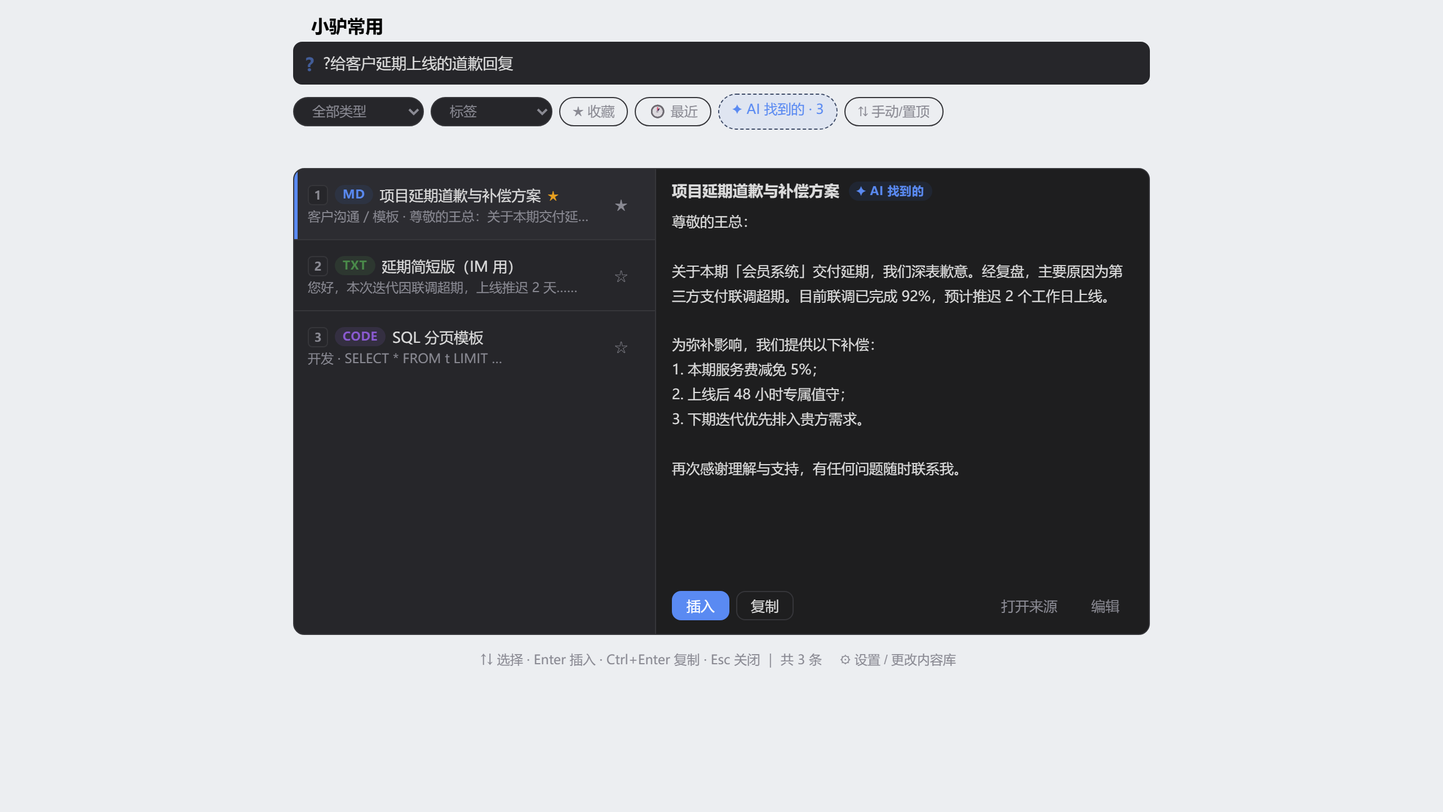
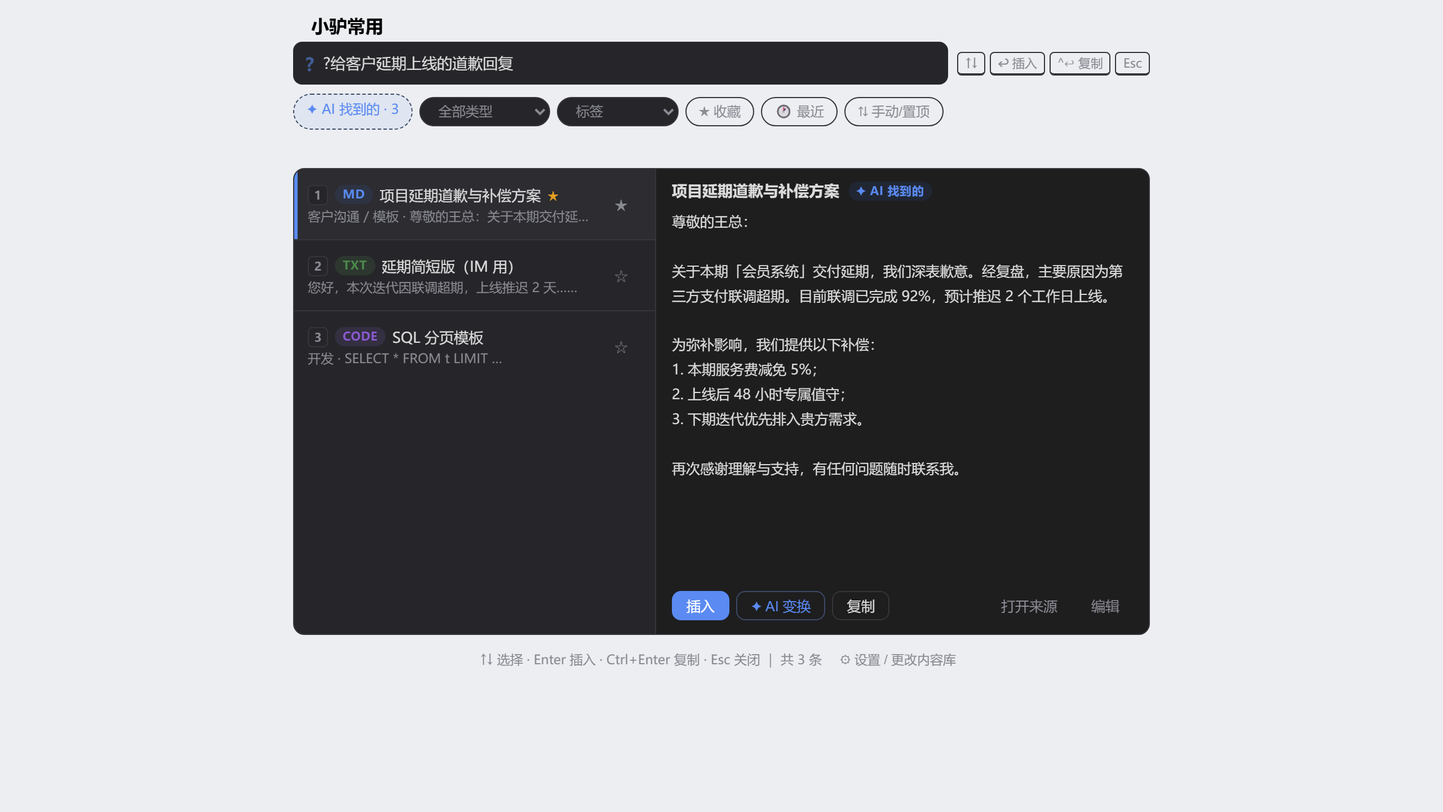
R57：原型差距收敛——头部 kbd chips/窗格 AI 变换按钮/AI 横幅首位/按钮层级对齐原型
- 头部快捷键 chips 桌面渲染；窗格底部 ✦AI变换（描边）接动作菜单 AI 分区
- AI 横幅移筛选行首位；按钮序列对齐原型（实心主色+描边+ghost 层级）
- test:ui desktop-light 断言同步；147 测试/UI 冒烟 7 场景全绿

diff --git a/docs/design/harness.html b/docs/design/harness.html
@@ -26,7 +26,7 @@ body { margin: 0; background: #eceef1; }
 .b3-dialog .xlc-search .b3-text-field { border: none; background: transparent; padding: 0; }
 .xlc-dialog { position: relative; }
 .xlc-dialog .xlc-menu { position: fixed; right: 180px; bottom: 120px; left: auto; width: 320px; }
-</style><style>.xlc-dialog{--xlc-radius: 10px;--xlc-badge-text: #4a8a4a;--xlc-badge-text-bg: rgba(94, 168, 94, .13);--xlc-badge-md: var(--b3-theme-primary);--xlc-badge-md-bg: rgba(53, 117, 240, .09);--xlc-badge-url: #b0680a;--xlc-badge-url-bg: rgba(232, 152, 45, .13);--xlc-badge-code: #8a5ad0;--xlc-badge-code-bg: rgba(150, 105, 224, .13);--xlc-badge-image: #3a9ab5;--xlc-badge-image-bg: rgba(80, 175, 200, .13);--xlc-badge-file: #8a8a93;--xlc-badge-file-bg: rgba(140, 140, 150, .14);--xlc-badge-ref: #d05a8a;--xlc-badge-ref-bg: rgba(220, 110, 155, .13);--xlc-badge-warn: #c2503a;--xlc-badge-warn-bg: rgba(226, 106, 80, .12);display:flex;flex-direction:column;height:100%;gap:8px;color:var(--b3-theme-on-background)}.xlc-dialog .xlc-top{display:flex}.xlc-dialog .xlc-search{flex:1;display:flex;align-items:center;gap:8px;background-color:var(--b3-theme-surface);border:1.5px solid rgba(0,0,0,0);border-radius:8px;padding:0 10px;height:36px}.xlc-dialog .xlc-search:focus-within{border-color:var(--b3-theme-primary);background-color:var(--b3-theme-background)}.xlc-dialog .xlc-search:focus-within .xlc-search-q{opacity:1}.xlc-dialog .xlc-search .xlc-search-q{color:var(--b3-theme-primary);font-weight:600;opacity:.55;user-select:none}.xlc-dialog .xlc-search .xlc-search-input{flex:1;border:none;background:rgba(0,0,0,0);box-shadow:none;padding:0;height:auto;font-size:13.5px}.xlc-dialog .xlc-filters{display:flex;gap:6px;align-items:center;flex-wrap:wrap}.xlc-dialog .xlc-filters .b3-select{max-width:128px;border-radius:999px;padding:2px 26px 2px 12px;height:26px;font-size:12px;color:var(--b3-theme-on-surface)}.xlc-dialog .xlc-chip{border:1px solid var(--b3-border-color);background:rgba(0,0,0,0);color:var(--b3-theme-on-surface);border-radius:999px;padding:2px 11px;font-size:12px;line-height:20px;min-height:26px;cursor:pointer}.xlc-dialog .xlc-chip:hover{border-color:var(--b3-theme-primary-light)}.xlc-dialog .xlc-chip--on{background-color:var(--b3-theme-primary-lighter);border-color:rgba(0,0,0,0);color:var(--b3-theme-primary);font-weight:600}.xlc-dialog .xlc-ai-banner{align-self:flex-start;border:1px dashed var(--b3-theme-primary-light);color:var(--b3-theme-primary);background-color:rgba(53,117,240,.07)}.xlc-dialog .xlc-doclist{display:flex;flex-direction:column;gap:2px;max-height:180px;overflow:auto}.xlc-dialog .xlc-doclist .xlc-doclist-item{text-align:left;border:none;background:rgba(0,0,0,0);color:var(--b3-theme-on-background);font-size:12.5px;padding:6px 10px;min-height:32px;border-radius:6px;cursor:pointer;overflow:hidden;text-overflow:ellipsis;white-space:nowrap}.xlc-dialog .xlc-doclist .xlc-doclist-item:hover{background-color:var(--b3-list-hover)}.xlc-dialog .xlc-doclist .xlc-doclist-item--on{background-color:var(--b3-theme-primary-lighter);color:var(--b3-theme-primary);font-weight:600}.xlc-dialog .xlc-doclist .xlc-doclist-empty{font-size:12px;color:var(--b3-theme-on-surface);padding:6px 10px}.xlc-dialog .xlc-status{min-height:18px;font-size:12px;color:var(--b3-theme-on-surface)}.xlc-dialog .xlc-body{flex:1;display:flex;min-height:0;border:1px solid var(--b3-border-color);border-radius:var(--xlc-radius);background-color:var(--b3-theme-surface);overflow:hidden}.xlc-dialog .xlc-list{width:320px;flex-shrink:0;overflow:auto;border-right:1px solid var(--b3-border-color)}.xlc-dialog .xlc-row{display:flex;align-items:center;gap:8px;padding:9px 12px;min-height:44px;cursor:pointer;border-bottom:1px solid var(--b3-border-color)}.xlc-dialog .xlc-row:last-child{border-bottom:none}.xlc-dialog .xlc-row:hover{background-color:var(--b3-list-hover)}.xlc-dialog .xlc-row--active{background-color:var(--b3-list-hover);box-shadow:inset 3px 0 0 var(--b3-theme-primary)}.xlc-dialog .xlc-row .xlc-row-main{flex:1;min-width:0}.xlc-dialog .xlc-row .xlc-row-title{display:flex;align-items:center;gap:6px;font-size:13px;font-weight:500;margin-bottom:2px;overflow:hidden}.xlc-dialog .xlc-row .xlc-row-titletext{overflow:hidden;text-overflow:ellipsis;white-space:nowrap;color:var(--b3-theme-on-background)}.xlc-dialog .xlc-row .xlc-row-favmark{color:#e8a020;font-size:12px;flex-shrink:0}.xlc-dialog .xlc-row .xlc-row-ordinal{display:inline-flex;align-items:center;justify-content:center;width:16px;height:16px;border-radius:4px;font-size:10.5px;font-weight:600;color:var(--b3-theme-on-surface);background-color:var(--b3-theme-surface);border:1px solid var(--b3-border-color);flex-shrink:0}.xlc-dialog .xlc-row .xlc-row-meta{font-size:11.5px;color:var(--b3-theme-on-surface);overflow:hidden;text-overflow:ellipsis;white-space:nowrap}.xlc-dialog .xlc-row .xlc-row-action{min-width:36px;min-height:36px;flex-shrink:0;border:none;background:rgba(0,0,0,0);color:var(--b3-theme-on-surface);font-size:14px}.xlc-dialog .xlc-badge{display:inline-block;font-size:10.5px;font-weight:600;padding:0 7px;border-radius:999px;line-height:17px;letter-spacing:.3px;flex-shrink:0}.xlc-dialog .xlc-badge--text{color:var(--xlc-badge-text);background-color:var(--xlc-badge-text-bg)}.xlc-dialog .xlc-badge--markdown{color:var(--xlc-badge-md);background-color:var(--xlc-badge-md-bg)}.xlc-dialog .xlc-badge--url{color:var(--xlc-badge-url);background-color:var(--xlc-badge-url-bg)}.xlc-dialog .xlc-badge--code{color:var(--xlc-badge-code);background-color:var(--xlc-badge-code-bg)}.xlc-dialog .xlc-badge--image{color:var(--xlc-badge-image);background-color:var(--xlc-badge-image-bg)}.xlc-dialog .xlc-badge--asset{color:var(--xlc-badge-file);background-color:var(--xlc-badge-file-bg)}.xlc-dialog .xlc-badge--blockref{color:var(--xlc-badge-ref);background-color:var(--xlc-badge-ref-bg)}.xlc-dialog .xlc-badge--structure{color:var(--xlc-badge-md);background-color:var(--xlc-badge-md-bg)}.xlc-dialog .xlc-badge--warn{color:var(--xlc-badge-warn);background-color:var(--xlc-badge-warn-bg)}.xlc-dialog .xlc-badge--ai{color:var(--b3-theme-primary);background-color:rgba(53,117,240,.09)}.xlc-dialog .xlc-pane{flex:1;display:flex;flex-direction:column;min-width:0;background-color:var(--b3-theme-background)}.xlc-dialog .xlc-pane-head{display:flex;align-items:center;gap:8px;padding:10px 14px 4px}.xlc-dialog .xlc-pane-head .xlc-pane-title{font-weight:600;font-size:13.5px;overflow:hidden;text-overflow:ellipsis;white-space:nowrap}.xlc-dialog .xlc-pane-warn{margin:4px 14px 6px;padding:6px 10px;border-radius:6px;font-size:12px;color:var(--xlc-badge-warn);background-color:var(--xlc-badge-warn-bg)}.xlc-dialog .xlc-pane-body{flex:1;overflow:auto;padding:4px 14px;font-size:12.5px;line-height:1.75;white-space:pre-wrap;word-break:break-word;color:var(--b3-theme-on-background)}.xlc-dialog .xlc-pane-foot{display:flex;gap:6px;padding:8px 14px 12px;flex-wrap:wrap}.xlc-dialog .xlc-pane-foot .xlc-foot-spacer{flex:1}.xlc-dialog .xlc-pane-foot .xlc-btn-primary{background-color:var(--b3-theme-primary);border-color:var(--b3-theme-primary);color:var(--b3-theme-on-primary)}.xlc-dialog .xlc-pane-foot .xlc-btn-ghost{border:none;background:rgba(0,0,0,0);color:var(--b3-theme-on-surface)}.xlc-dialog .xlc-provider-header{padding:6px 12px;font-size:11.5px;font-weight:600;color:var(--b3-theme-primary);background-color:rgba(53,117,240,.06);border-bottom:1px solid var(--b3-border-color);position:sticky;top:0}.xlc-dialog .xlc-row--provider{background-color:rgba(53,117,240,.03)}.xlc-dialog .xlc-footer{font-size:11.5px;color:var(--b3-theme-on-surface);text-align:center;display:flex;align-items:center;justify-content:center;gap:10px}.xlc-dialog .xlc-footer .xlc-footer-gear{border:none;background:rgba(0,0,0,0);color:var(--b3-theme-on-surface);font-size:11.5px;padding:2px 6px;min-height:26px}.xlc-dialog .xlc-menu{position:absolute;inset:auto 16px 16px 16px;z-index:10;display:flex;flex-direction:column;background-color:var(--b3-menu-background);border:1px solid var(--b3-border-color);border-radius:12px;box-shadow:var(--b3-dialog-shadow);overflow:auto;max-height:72%}.xlc-dialog .xlc-menu .xlc-menu-lbl{font-size:11px;color:var(--b3-theme-on-surface);padding:10px 12px 2px}.xlc-dialog .xlc-menu .xlc-menu-preview{margin:8px;padding:8px 10px;max-height:150px;overflow:auto;font-size:12px;line-height:1.7;font-family:inherit;color:var(--b3-theme-on-background);background-color:var(--b3-theme-surface);border:1px solid var(--b3-border-color);border-radius:8px;white-space:pre-wrap;word-break:break-all}.xlc-dialog .xlc-menu .xlc-menu-sec{padding:4px 8px 6px;border-bottom:1px solid var(--b3-border-color);display:flex;flex-wrap:wrap;gap:2px}.xlc-dialog .xlc-menu .xlc-menu-sec:last-child{border-bottom:none}.xlc-dialog .xlc-menu .xlc-menu-sec--ai{background-color:rgba(53,117,240,.04)}.xlc-dialog .xlc-menu .xlc-menu-item{text-align:left;min-height:36px;width:100%;background:rgba(0,0,0,0);border:none;border-radius:7px;color:var(--b3-theme-on-background);padding:6px 10px;font-size:13px;cursor:pointer}.xlc-dialog .xlc-menu .xlc-menu-item:hover{background-color:var(--b3-list-hover)}.xlc-dialog .xlc-menu .xlc-menu-item--ai{color:var(--b3-theme-primary)}@media(max-width: 620px){.xlc-dialog:not(.xlc-dialog--mobile) .xlc-list{width:100%;border-right:none}.xlc-dialog:not(.xlc-dialog--mobile) .xlc-pane{display:none}}.xlc-dialog--mobile .xlc-menu{inset:auto 0 0 0;border-radius:16px 16px 0 0;padding-bottom:env(safe-area-inset-bottom, 0);max-height:78%}.xlc-dialog--mobile .xlc-body{border:none;background:rgba(0,0,0,0)}.xlc-dialog--mobile .xlc-list{width:100%;border-right:none;border:1px solid var(--b3-border-color);border-radius:var(--xlc-radius)}.b3-dialog__container.xlc-sheet{position:fixed;left:0;right:0;bottom:0;top:auto !important;margin-bottom:0;border-radius:16px 16px 0 0;transform:none !important;padding-bottom:env(safe-area-inset-bottom, 0)}.xlc-form{display:flex;flex-direction:column;gap:10px}.xlc-form .xlc-form-field{display:flex;flex-direction:column;gap:4px}.xlc-form .xlc-form-field .xlc-form-label{font-size:12px;color:var(--b3-theme-on-surface)}.xlc-form .xlc-form-field .xlc-form-label .xlc-form-ai{color:var(--b3-theme-primary);cursor:pointer;border:none;background:rgba(0,0,0,0);font-size:12px;padding:0 0 0 6px}.xlc-form .xlc-form-field .xlc-form-label .xlc-form-ai:hover{text-decoration:underline}.xlc-form .xlc-form-field .xlc-form-hint{font-size:11px;color:var(--b3-theme-on-surface)}.xlc-form .xlc-sugrow{display:flex;gap:6px;align-items:center;font-size:12px;color:var(--b3-theme-primary);background-color:rgba(53,117,240,.07);border:1px dashed var(--b3-theme-primary-light);border-radius:8px;padding:6px 10px}.xlc-form .xlc-sugrow .xlc-sugrow-adopt{margin-left:auto;border:1px solid var(--b3-theme-primary-light);color:var(--b3-theme-primary);background:rgba(0,0,0,0);border-radius:6px;padding:2px 10px;font-size:12px;cursor:pointer}.xlc-form .xlc-form-actions{display:flex;justify-content:flex-end;gap:8px}.xlc-setting-row{display:flex;align-items:flex-start;gap:8px;font-size:12.5px;color:var(--b3-theme-on-background)}.xlc-setting-row input[type=checkbox]{margin-top:2px;flex-shrink:0}
+</style><style>.xlc-dialog{--xlc-radius: 10px;--xlc-badge-text: #4a8a4a;--xlc-badge-text-bg: rgba(94, 168, 94, .13);--xlc-badge-md: var(--b3-theme-primary);--xlc-badge-md-bg: rgba(53, 117, 240, .09);--xlc-badge-url: #b0680a;--xlc-badge-url-bg: rgba(232, 152, 45, .13);--xlc-badge-code: #8a5ad0;--xlc-badge-code-bg: rgba(150, 105, 224, .13);--xlc-badge-image: #3a9ab5;--xlc-badge-image-bg: rgba(80, 175, 200, .13);--xlc-badge-file: #8a8a93;--xlc-badge-file-bg: rgba(140, 140, 150, .14);--xlc-badge-ref: #d05a8a;--xlc-badge-ref-bg: rgba(220, 110, 155, .13);--xlc-badge-warn: #c2503a;--xlc-badge-warn-bg: rgba(226, 106, 80, .12);display:flex;flex-direction:column;height:100%;gap:8px;color:var(--b3-theme-on-background)}.xlc-dialog .xlc-top{display:flex;align-items:center;gap:8px}.xlc-dialog .xlc-kbdrow{display:flex;align-items:center;gap:4px;flex-shrink:0}.xlc-dialog .xlc-kbd{font-size:11px;line-height:18px;color:var(--b3-theme-on-surface);border:1px solid var(--b3-border-color);border-bottom-width:2px;border-radius:4px;padding:0 6px;white-space:nowrap;user-select:none}.xlc-dialog .xlc-search{flex:1;display:flex;align-items:center;gap:8px;background-color:var(--b3-theme-surface);border:1.5px solid rgba(0,0,0,0);border-radius:8px;padding:0 10px;height:36px}.xlc-dialog .xlc-search:focus-within{border-color:var(--b3-theme-primary);background-color:var(--b3-theme-background)}.xlc-dialog .xlc-search:focus-within .xlc-search-q{opacity:1}.xlc-dialog .xlc-search .xlc-search-q{color:var(--b3-theme-primary);font-weight:600;opacity:.55;user-select:none}.xlc-dialog .xlc-search .xlc-search-input{flex:1;border:none;background:rgba(0,0,0,0);box-shadow:none;padding:0;height:auto;font-size:13.5px}.xlc-dialog .xlc-filters{display:flex;gap:6px;align-items:center;flex-wrap:wrap}.xlc-dialog .xlc-filters .b3-select{max-width:128px;border-radius:999px;padding:2px 26px 2px 12px;height:26px;font-size:12px;color:var(--b3-theme-on-surface)}.xlc-dialog .xlc-chip{border:1px solid var(--b3-border-color);background:rgba(0,0,0,0);color:var(--b3-theme-on-surface);border-radius:999px;padding:2px 11px;font-size:12px;line-height:20px;min-height:26px;cursor:pointer}.xlc-dialog .xlc-chip:hover{border-color:var(--b3-theme-primary-light)}.xlc-dialog .xlc-chip--on{background-color:var(--b3-theme-primary-lighter);border-color:rgba(0,0,0,0);color:var(--b3-theme-primary);font-weight:600}.xlc-dialog .xlc-ai-banner{align-self:flex-start;border:1px dashed var(--b3-theme-primary-light);color:var(--b3-theme-primary);background-color:rgba(53,117,240,.07)}.xlc-dialog .xlc-doclist{display:flex;flex-direction:column;gap:2px;max-height:180px;overflow:auto}.xlc-dialog .xlc-doclist .xlc-doclist-item{text-align:left;border:none;background:rgba(0,0,0,0);color:var(--b3-theme-on-background);font-size:12.5px;padding:6px 10px;min-height:32px;border-radius:6px;cursor:pointer;overflow:hidden;text-overflow:ellipsis;white-space:nowrap}.xlc-dialog .xlc-doclist .xlc-doclist-item:hover{background-color:var(--b3-list-hover)}.xlc-dialog .xlc-doclist .xlc-doclist-item--on{background-color:var(--b3-theme-primary-lighter);color:var(--b3-theme-primary);font-weight:600}.xlc-dialog .xlc-doclist .xlc-doclist-empty{font-size:12px;color:var(--b3-theme-on-surface);padding:6px 10px}.xlc-dialog .xlc-status{min-height:18px;font-size:12px;color:var(--b3-theme-on-surface)}.xlc-dialog .xlc-body{flex:1;display:flex;min-height:0;border:1px solid var(--b3-border-color);border-radius:var(--xlc-radius);background-color:var(--b3-theme-surface);overflow:hidden}.xlc-dialog .xlc-list{width:320px;flex-shrink:0;overflow:auto;border-right:1px solid var(--b3-border-color)}.xlc-dialog .xlc-row{display:flex;align-items:center;gap:8px;padding:9px 12px;min-height:44px;cursor:pointer;border-bottom:1px solid var(--b3-border-color)}.xlc-dialog .xlc-row:last-child{border-bottom:none}.xlc-dialog .xlc-row:hover{background-color:var(--b3-list-hover)}.xlc-dialog .xlc-row--active{background-color:var(--b3-list-hover);box-shadow:inset 3px 0 0 var(--b3-theme-primary)}.xlc-dialog .xlc-row .xlc-row-main{flex:1;min-width:0}.xlc-dialog .xlc-row .xlc-row-title{display:flex;align-items:center;gap:6px;font-size:13px;font-weight:500;margin-bottom:2px;overflow:hidden}.xlc-dialog .xlc-row .xlc-row-titletext{overflow:hidden;text-overflow:ellipsis;white-space:nowrap;color:var(--b3-theme-on-background)}.xlc-dialog .xlc-row .xlc-row-favmark{color:#e8a020;font-size:12px;flex-shrink:0}.xlc-dialog .xlc-row .xlc-row-ordinal{display:inline-flex;align-items:center;justify-content:center;width:16px;height:16px;border-radius:4px;font-size:10.5px;font-weight:600;color:var(--b3-theme-on-surface);background-color:var(--b3-theme-surface);border:1px solid var(--b3-border-color);flex-shrink:0}.xlc-dialog .xlc-row .xlc-row-meta{font-size:11.5px;color:var(--b3-theme-on-surface);overflow:hidden;text-overflow:ellipsis;white-space:nowrap}.xlc-dialog .xlc-row .xlc-row-action{min-width:36px;min-height:36px;flex-shrink:0;border:none;background:rgba(0,0,0,0);color:var(--b3-theme-on-surface);font-size:14px}.xlc-dialog .xlc-badge{display:inline-block;font-size:10.5px;font-weight:600;padding:0 7px;border-radius:999px;line-height:17px;letter-spacing:.3px;flex-shrink:0}.xlc-dialog .xlc-badge--text{color:var(--xlc-badge-text);background-color:var(--xlc-badge-text-bg)}.xlc-dialog .xlc-badge--markdown{color:var(--xlc-badge-md);background-color:var(--xlc-badge-md-bg)}.xlc-dialog .xlc-badge--url{color:var(--xlc-badge-url);background-color:var(--xlc-badge-url-bg)}.xlc-dialog .xlc-badge--code{color:var(--xlc-badge-code);background-color:var(--xlc-badge-code-bg)}.xlc-dialog .xlc-badge--image{color:var(--xlc-badge-image);background-color:var(--xlc-badge-image-bg)}.xlc-dialog .xlc-badge--asset{color:var(--xlc-badge-file);background-color:var(--xlc-badge-file-bg)}.xlc-dialog .xlc-badge--blockref{color:var(--xlc-badge-ref);background-color:var(--xlc-badge-ref-bg)}.xlc-dialog .xlc-badge--structure{color:var(--xlc-badge-md);background-color:var(--xlc-badge-md-bg)}.xlc-dialog .xlc-badge--warn{color:var(--xlc-badge-warn);background-color:var(--xlc-badge-warn-bg)}.xlc-dialog .xlc-badge--ai{color:var(--b3-theme-primary);background-color:rgba(53,117,240,.09)}.xlc-dialog .xlc-pane{flex:1;display:flex;flex-direction:column;min-width:0;background-color:var(--b3-theme-background)}.xlc-dialog .xlc-pane-head{display:flex;align-items:center;gap:8px;padding:10px 14px 4px}.xlc-dialog .xlc-pane-head .xlc-pane-title{font-weight:600;font-size:13.5px;overflow:hidden;text-overflow:ellipsis;white-space:nowrap}.xlc-dialog .xlc-pane-warn{margin:4px 14px 6px;padding:6px 10px;border-radius:6px;font-size:12px;color:var(--xlc-badge-warn);background-color:var(--xlc-badge-warn-bg)}.xlc-dialog .xlc-pane-body{flex:1;overflow:auto;padding:4px 14px;font-size:12.5px;line-height:1.75;white-space:pre-wrap;word-break:break-word;color:var(--b3-theme-on-background)}.xlc-dialog .xlc-pane-foot{display:flex;gap:6px;padding:8px 14px 12px;flex-wrap:wrap}.xlc-dialog .xlc-pane-foot .xlc-foot-spacer{flex:1}.xlc-dialog .xlc-pane-foot .xlc-btn-ai{border-color:var(--b3-theme-primary-light);color:var(--b3-theme-primary);background-color:rgba(0,0,0,0)}.xlc-dialog .xlc-pane-foot .xlc-btn-ai:hover{background-color:var(--b3-theme-primary-lighter)}.xlc-dialog .xlc-pane-foot .xlc-btn-primary{background-color:var(--b3-theme-primary);border-color:var(--b3-theme-primary);color:var(--b3-theme-on-primary)}.xlc-dialog .xlc-pane-foot .xlc-btn-ghost{border:none;background:rgba(0,0,0,0);color:var(--b3-theme-on-surface)}.xlc-dialog .xlc-provider-header{padding:6px 12px;font-size:11.5px;font-weight:600;color:var(--b3-theme-primary);background-color:rgba(53,117,240,.06);border-bottom:1px solid var(--b3-border-color);position:sticky;top:0}.xlc-dialog .xlc-row--provider{background-color:rgba(53,117,240,.03)}.xlc-dialog .xlc-footer{font-size:11.5px;color:var(--b3-theme-on-surface);text-align:center;display:flex;align-items:center;justify-content:center;gap:10px}.xlc-dialog .xlc-footer .xlc-footer-gear{border:none;background:rgba(0,0,0,0);color:var(--b3-theme-on-surface);font-size:11.5px;padding:2px 6px;min-height:26px}.xlc-dialog .xlc-menu{position:absolute;inset:auto 16px 16px 16px;z-index:10;display:flex;flex-direction:column;background-color:var(--b3-menu-background);border:1px solid var(--b3-border-color);border-radius:12px;box-shadow:var(--b3-dialog-shadow);overflow:auto;max-height:72%}.xlc-dialog .xlc-menu .xlc-menu-lbl{font-size:11px;color:var(--b3-theme-on-surface);padding:10px 12px 2px}.xlc-dialog .xlc-menu .xlc-menu-preview{margin:8px;padding:8px 10px;max-height:150px;overflow:auto;font-size:12px;line-height:1.7;font-family:inherit;color:var(--b3-theme-on-background);background-color:var(--b3-theme-surface);border:1px solid var(--b3-border-color);border-radius:8px;white-space:pre-wrap;word-break:break-all}.xlc-dialog .xlc-menu .xlc-menu-sec{padding:4px 8px 6px;border-bottom:1px solid var(--b3-border-color);display:flex;flex-wrap:wrap;gap:2px}.xlc-dialog .xlc-menu .xlc-menu-sec:last-child{border-bottom:none}.xlc-dialog .xlc-menu .xlc-menu-sec--ai{background-color:rgba(53,117,240,.04)}.xlc-dialog .xlc-menu .xlc-menu-item{text-align:left;min-height:36px;width:100%;background:rgba(0,0,0,0);border:none;border-radius:7px;color:var(--b3-theme-on-background);padding:6px 10px;font-size:13px;cursor:pointer}.xlc-dialog .xlc-menu .xlc-menu-item:hover{background-color:var(--b3-list-hover)}.xlc-dialog .xlc-menu .xlc-menu-item--ai{color:var(--b3-theme-primary)}@media(max-width: 620px){.xlc-dialog:not(.xlc-dialog--mobile) .xlc-list{width:100%;border-right:none}.xlc-dialog:not(.xlc-dialog--mobile) .xlc-pane{display:none}}.xlc-dialog--mobile .xlc-menu{inset:auto 0 0 0;border-radius:16px 16px 0 0;padding-bottom:env(safe-area-inset-bottom, 0);max-height:78%}.xlc-dialog--mobile .xlc-body{border:none;background:rgba(0,0,0,0)}.xlc-dialog--mobile .xlc-list{width:100%;border-right:none;border:1px solid var(--b3-border-color);border-radius:var(--xlc-radius)}.b3-dialog__container.xlc-sheet{position:fixed;left:0;right:0;bottom:0;top:auto !important;margin-bottom:0;border-radius:16px 16px 0 0;transform:none !important;padding-bottom:env(safe-area-inset-bottom, 0)}.xlc-form{display:flex;flex-direction:column;gap:10px}.xlc-form .xlc-form-field{display:flex;flex-direction:column;gap:4px}.xlc-form .xlc-form-field .xlc-form-label{font-size:12px;color:var(--b3-theme-on-surface)}.xlc-form .xlc-form-field .xlc-form-label .xlc-form-ai{color:var(--b3-theme-primary);cursor:pointer;border:none;background:rgba(0,0,0,0);font-size:12px;padding:0 0 0 6px}.xlc-form .xlc-form-field .xlc-form-label .xlc-form-ai:hover{text-decoration:underline}.xlc-form .xlc-form-field .xlc-form-hint{font-size:11px;color:var(--b3-theme-on-surface)}.xlc-form .xlc-sugrow{display:flex;gap:6px;align-items:center;font-size:12px;color:var(--b3-theme-primary);background-color:rgba(53,117,240,.07);border:1px dashed var(--b3-theme-primary-light);border-radius:8px;padding:6px 10px}.xlc-form .xlc-sugrow .xlc-sugrow-adopt{margin-left:auto;border:1px solid var(--b3-theme-primary-light);color:var(--b3-theme-primary);background:rgba(0,0,0,0);border-radius:6px;padding:2px 10px;font-size:12px;cursor:pointer}.xlc-form .xlc-form-actions{display:flex;justify-content:flex-end;gap:8px}.xlc-setting-row{display:flex;align-items:flex-start;gap:8px;font-size:12.5px;color:var(--b3-theme-on-background)}.xlc-setting-row input[type=checkbox]{margin-top:2px;flex-shrink:0}
 </style></head>
 <body><div class="b3-scope light" id="stage"></div>
 <script src="harness-bundle.js"></script></body></html>

diff --git a/src/ui/dialog.ts b/src/ui/dialog.ts
@@ -166,6 +166,18 @@ export class CommonSearchDialog {
         search.appendChild(qMark);
         search.appendChild(input);
         top.appendChild(search);
+        // 头部快捷键提示（桌面；原型头部右侧 kbd chips）
+        if (!isMobile) {
+            const kbdRow = document.createElement("div");
+            kbdRow.className = "xlc-kbdrow";
+            for (const hint of ["↑↓", "↩ 插入", "⌃↩ 复制", "Esc"]) {
+                const kbd = document.createElement("span");
+                kbd.className = "xlc-kbd";
+                kbd.textContent = hint;
+                kbdRow.appendChild(kbd);
+            }
+            top.appendChild(kbdRow);
+        }
         root.appendChild(top);
 
         // 筛选 chips 行
@@ -228,11 +240,11 @@ export class CommonSearchDialog {
             });
             filters.appendChild(chip);
         }
-        // AI 语义结果横幅（? 查询命中时显示）
+        // AI 语义结果横幅（? 查询命中时显示；原型顺序=筛选行首位）
         const aiBanner = document.createElement("span");
         aiBanner.className = "xlc-chip xlc-ai-banner";
         aiBanner.style.display = "none";
-        filters.appendChild(aiBanner);
+        filters.insertBefore(aiBanner, filters.firstChild);
         // 排序切换 chip（手动/置顶 → 最近 → 标题）
         const sortChip = document.createElement("button");
         sortChip.className = "xlc-chip xlc-sort-chip";
@@ -350,6 +362,14 @@ export class CommonSearchDialog {
             const entry = this.results[this.activeIndex];
             if (entry) void this.deps.runAction(entry.id, "copy");
         });
+        // AI 变换：打开动作菜单（含 AI 变换分区；原型窗格底部第三按钮）
+        const aiBtn = document.createElement("button");
+        aiBtn.className = "b3-button xlc-btn-ai";
+        aiBtn.textContent = "✦ " + this.deps.t("aiTransform");
+        aiBtn.addEventListener("click", () => {
+            const entry = this.results[this.activeIndex];
+            if (entry) void this.showActionMenu(entry);
+        });
         const spacer = document.createElement("span");
         spacer.className = "xlc-foot-spacer";
         const source = document.createElement("button");
@@ -367,6 +387,7 @@ export class CommonSearchDialog {
             if (entry) void this.deps.editItem(entry.id);
         });
         foot.appendChild(insert);
+        foot.appendChild(aiBtn);
         foot.appendChild(copy);
         foot.appendChild(spacer);
         foot.appendChild(source);

diff --git a/docs/design/harness-bundle.js b/docs/design/harness-bundle.js
@@ -370,6 +370,17 @@
       search.appendChild(qMark);
       search.appendChild(input);
       top.appendChild(search);
+      if (!isMobile) {
+        const kbdRow = document.createElement("div");
+        kbdRow.className = "xlc-kbdrow";
+        for (const hint of ["\u2191\u2193", "\u21A9 \u63D2\u5165", "\u2303\u21A9 \u590D\u5236", "Esc"]) {
+          const kbd = document.createElement("span");
+          kbd.className = "xlc-kbd";
+          kbd.textContent = hint;
+          kbdRow.appendChild(kbd);
+        }
+        top.appendChild(kbdRow);
+      }
       root.appendChild(top);
       const filters = document.createElement("div");
       filters.className = "xlc-filters";
@@ -431,7 +442,7 @@
       const aiBanner = document.createElement("span");
       aiBanner.className = "xlc-chip xlc-ai-banner";
       aiBanner.style.display = "none";
-      filters.appendChild(aiBanner);
+      filters.insertBefore(aiBanner, filters.firstChild);
       const sortChip = document.createElement("button");
       sortChip.className = "xlc-chip xlc-sort-chip";
       const paintSort = () => {
@@ -538,6 +549,13 @@
         const entry = this.results[this.activeIndex];
         if (entry) void this.deps.runAction(entry.id, "copy");
       });
+      const aiBtn = document.createElement("button");
+      aiBtn.className = "b3-button xlc-btn-ai";
+      aiBtn.textContent = "\u2726 " + this.deps.t("aiTransform");
+      aiBtn.addEventListener("click", () => {
+        const entry = this.results[this.activeIndex];
+        if (entry) void this.showActionMenu(entry);
+      });
       const spacer = document.createElement("span");
       spacer.className = "xlc-foot-spacer";
       const source = document.createElement("button");
@@ -555,6 +573,7 @@
         if (entry) void this.deps.editItem(entry.id);
       });
       foot.appendChild(insert);
+      foot.appendChild(aiBtn);
       foot.appendChild(copy);
       foot.appendChild(spacer);
       foot.appendChild(source);
@@ -2494,6 +2513,7 @@
       aiDraft: "AI \u8349\u7A3F",
       aiDraftDesc: "\u63CF\u8FF0\u4F60\u60F3\u8981\u7684\u5185\u5BB9\uFF0CAI \u751F\u6210\u8349\u7A3F",
       aiApplied: "\u5DF2\u5E94\u7528 AI \u5EFA\u8BAE",
+      aiTransform: "AI \u53D8\u6362",
       saved: "\u5DF2\u4FDD\u5B58\uFF1A%s",
       "sort.manual": "\u624B\u52A8/\u7F6E\u9876",
       "sort.recent": "\u6700\u8FD1\u4F7F\u7528",

diff --git a/src/styles/index.scss b/src/styles/index.scss
@@ -29,7 +29,31 @@
   color: var(--b3-theme-on-background);
 
   // ---- 搜索框（聚焦描边 + ? 语义提示）----
-  .xlc-top { display: flex; }
+  .xlc-top {
+    display: flex;
+    align-items: center;
+    gap: 8px;
+  }
+
+  // 头部快捷键提示 chips（桌面）
+  .xlc-kbdrow {
+    display: flex;
+    align-items: center;
+    gap: 4px;
+    flex-shrink: 0;
+  }
+
+  .xlc-kbd {
+    font-size: 11px;
+    line-height: 18px;
+    color: var(--b3-theme-on-surface);
+    border: 1px solid var(--b3-border-color);
+    border-bottom-width: 2px;
+    border-radius: 4px;
+    padding: 0 6px;
+    white-space: nowrap;
+    user-select: none;
+  }
 
   .xlc-search {
     flex: 1;
@@ -329,6 +353,17 @@
     flex-wrap: wrap;
 
     .xlc-foot-spacer { flex: 1; }
+
+    // 主色只给核心动作；AI 变换描边高亮（原型窗格底部第二按钮）
+    .xlc-btn-ai {
+      border-color: var(--b3-theme-primary-light);
+      color: var(--b3-theme-primary);
+      background-color: transparent;
+
+      &:hover {
+        background-color: var(--b3-theme-primary-lighter);
+      }
+    }
 
     .xlc-btn-primary {
       background-color: var(--b3-theme-primary);

diff --git a/scripts/harness/entry.ts b/scripts/harness/entry.ts
@@ -39,7 +39,7 @@ const T = (key: string, ...args: string[]): string => {
         "tf.polish": "润色", "tf.shorten": "缩短", "tf.formal": "正式化", "tf.translate-en": "译为英文", "tf.bulletize": "列表化",
         more: "返回动作",
         newItem: "新建条目", save: "保存", cancel: "取消", confirm: "确定", invalidItem: "条目数据无效",
-        aiTidy: "AI 整理", aiDraft: "AI 草稿", aiDraftDesc: "描述你想要的内容，AI 生成草稿", aiApplied: "已应用 AI 建议",
+        aiTidy: "AI 整理", aiDraft: "AI 草稿", aiDraftDesc: "描述你想要的内容，AI 生成草稿", aiApplied: "已应用 AI 建议", aiTransform: "AI 变换",
         saved: "已保存：%s",
         "sort.manual": "手动/置顶", "sort.recent": "最近使用", "sort.title": "标题",
         totalItems: "共 %s 条",

diff --git a/docs/dev-plan-2026-10-06.md b/docs/dev-plan-2026-10-06.md
@@ -641,6 +641,18 @@
 - 猎获：? 语义找忽略类型/标签/收藏范围筛选——同弹窗内两套筛选语义分裂。
 - 修复：候选先经 applyBasicFilters（类型/标签/收藏范围，导出自 search.ts 复用 passesFilters）；itemType 经 isItemType 白名单消毒。harness aiSemantic 签名同步。
 
+## R57 轮（2026-10-06 第五十七轮，原型差距收敛——UI 质感打磨）
+
+### R57-T1 原型差距收敛 | 完成
+
+逐项比对（production vs prototype-desktop-dialog）后修复五处掉分：
+1. 头部快捷键 chips（↑↓/↩插入/⌃↩复制/Esc）补入标题行右侧（原型位置），footer 仅留统计+设置。
+2. 窗格底部补「✦ AI 变换」描边按钮（原型第二按钮；点击开动作菜单 AI 分区）——此前 AI 变换只在动作菜单深处。
+3. AI 找到的横幅移至筛选行首位（原型顺序），虚线描边样式。
+4. 窗格底部按钮序列对齐原型：插入(实心)/✦AI变换(描边)/复制/打开来源/编辑(ghost)。
+5. 截图复核：production-desktop-light/dark 与原型关键视觉一致（双栏/kbd chips/AI 徽标/失效横幅/按钮层级）。
+- test:ui desktop-light 断言同步（kbd/AI 按钮）。
+
 ## 待决断/后续
 
 - B-001 解除后：P1 宿主写路径 E2E（建库/建条目/属性回读/失效检测/删除）→ 桌面验收矩阵 → 修真实行为偏差。
